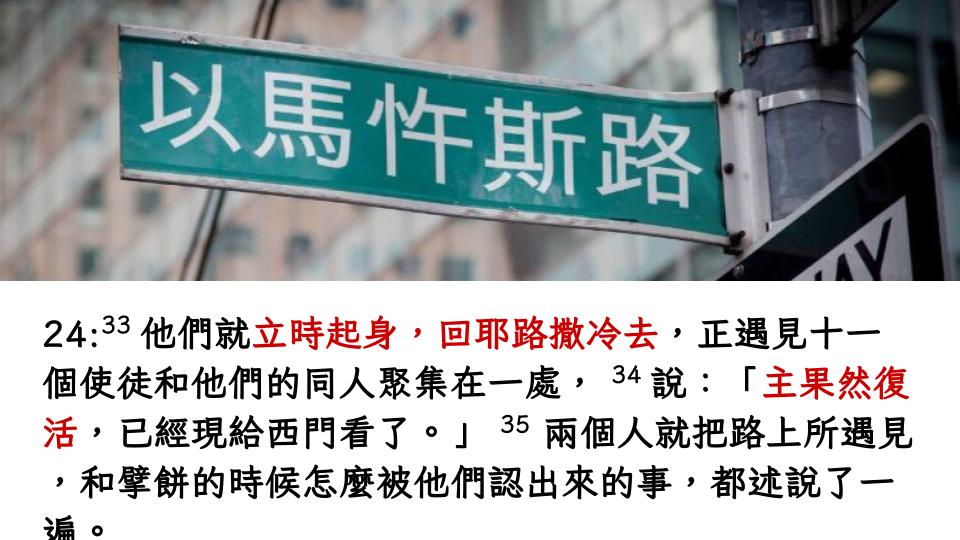
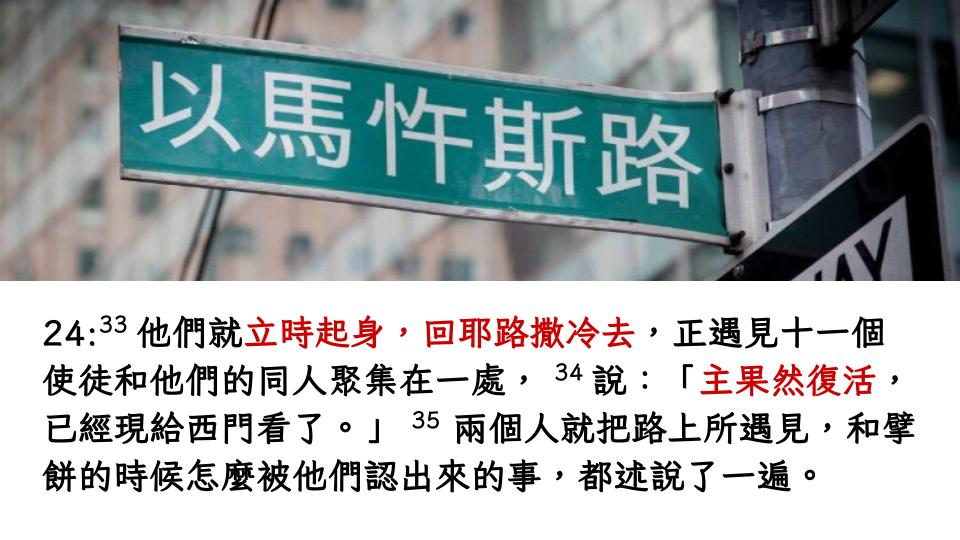
update

Changed region(s): [[0.0312, 0.563, 0.9688, 0.9185], [0.0312, 0.9481, 0.125, 1.0]]

diff --git a/preach/luke24_13-35/index.html b/preach/luke24_13-35/index.html
@@ -4,7 +4,7 @@
     <meta charset="UTF-8">
     <meta http-equiv="X-UA-Compatible" content="IE=edge">
     <meta name="viewport" content="width=device-width, initial-scale=1.0">
-    <title>Luke 10:25-37 打破隔閡的愛</title>
+    <title>Luke 24:13-35 以馬忤斯路重燃信望愛</title>
     <link rel="stylesheet" href="reveal.js/dist/reveal.css">
     <link rel="stylesheet" href="reveal.js/dist/theme/black.css" id="theme">
     <style>
@@ -16,72 +16,68 @@
         <div class="slides">
             <!-- Slide 1 -->
             <section>
-                <img src="slides/010103N0310_25-37-01.svg" alt="Slide 1" style="width:100%; height:auto;">
+                <img src="slides/010103N0324_13-35-01.jpg" alt="Slide 1" style="width:100%; height:auto;">
             </section>
             <!-- Slide 2 -->
             <section>
-                <img src="slides/010103N0310_25-37-02.svg" alt="Slide 2" style="width:100%; height:auto;">
+                <img src="slides/010103N0324_13-35-02.jpg" alt="Slide 2" style="width:100%; height:auto;">
             </section>
             <!-- Slide 3 -->
             <section>
-                <img src="slides/010103N0310_25-37-03.svg" alt="Slide 3" style="width:100%; height:auto;">
+                <img src="slides/010103N0324_13-35-03.jpg" alt="Slide 3" style="width:100%; height:auto;">
             </section>
             <!-- Slide 4 -->
             <section>
-                <img src="slides/010103N0310_25-37-04.svg" alt="Slide 4" style="width:100%; height:auto;">
+                <img src="slides/010103N0324_13-35-04.jpg" alt="Slide 4" style="width:100%; height:auto;">
             </section>
             <!-- Slide 5 -->
             <section>
-                <img src="slides/010103N0310_25-37-05.svg" alt="Slide 5" style="width:100%; height:auto;">
+                <img src="slides/010103N0324_13-35-05.jpg" alt="Slide 5" style="width:100%; height:auto;">
             </section>
             <!-- Slide 6 -->
             <section>
-                <img src="slides/010103N0310_25-37-06.svg" alt="Slide 6" style="width:100%; height:auto;">
+                <img src="slides/010103N0324_13-35-06.jpg" alt="Slide 6" style="width:100%; height:auto;">
             </section>
             <!-- Slide 7 -->
             <section>
-                <img src="slides/010103N0310_25-37-07.svg" alt="Slide 7" style="width:100%; height:auto;">
+                <img src="slides/010103N0324_13-35-07.jpg" alt="Slide 7" style="width:100%; height:auto;">
             </section>
             <!-- Slide 8 -->
             <section>
-                <img src="slides/010103N0310_25-37-08.svg" alt="Slide 8" style="width:100%; height:auto;">
+                <img src="slides/010103N0324_13-35-08.jpg" alt="Slide 8" style="width:100%; height:auto;">
             </section>
              <!-- Slide 9 -->
              <section>
-                <img src="slides/010103N0310_25-37-09.svg" alt="Slide 9" style="width:100%; height:auto;">
+                <img src="slides/010103N0324_13-35-09.jpg" alt="Slide 9" style="width:100%; height:auto;">
             </section>
             <!-- Slide 10 -->
             <section>
-                <img src="slides/010103N0310_25-37-10.svg" alt="Slide 10" style="width:100%; height:auto;">
+                <img src="slides/010103N0324_13-35-10.jpg" alt="Slide 10" style="width:100%; height:auto;">
             </section>
             <!-- Slide 11 -->
             <section>
-                <img src="slides/010103N0310_25-37-11.svg" alt="Slide 11" style="width:100%; height:auto;">
+                <img src="slides/010103N0324_13-35-11.jpg" alt="Slide 11" style="width:100%; height:auto;">
             </section>
             <!-- Slide 12 -->
             <section>
-                <img src="slides/010103N0310_25-37-12.svg" alt="Slide 12" style="width:100%; height:auto;">
+                <img src="slides/010103N0324_13-35-12.jpg" alt="Slide 12" style="width:100%; height:auto;">
             </section>
             <!-- Slide 13 -->
             <section>
-                <img src="slides/010103N0310_25-37-13.svg" alt="Slide 13" style="width:100%; height:auto;">
+                <img src="slides/010103N0324_13-35-13.jpg" alt="Slide 13" style="width:100%; height:auto;">
             </section> 
             <!-- Slide 14 -->
             <section>
-                <img src="slides/010103N0310_25-37-14.svg" alt="Slide 14" style="width:100%; height:auto;">
+                <img src="slides/010103N0324_13-35-14.jpg" alt="Slide 14" style="width:100%; height:auto;">
             </section>
             <!-- Slide 15 -->
             <section>
-                <img src="slides/010103N0310_25-37-15.svg" alt="Slide 15" style="width:100%; height:auto;">
+                <img src="slides/010103N0324_13-35-15.jpg" alt="Slide 15" style="width:100%; height:auto;">
             </section>
             <!-- Slide 16 -->
             <section>
-                <img src="slides/010103N0310_25-37-16.svg" alt="Slide 16" style="width:100%; height:auto;">
-            </section> 
-            <!-- Slide 15 -->
-            <section>
-                <img src="slides/010103N0310_25-37-17.svg" alt="Slide 17" style="width:100%; height:auto;">
-            </section>  
+                <img src="slides/010103N0324_13-35-16.jpg" alt="Slide 16" style="width:100%; height:auto;">
+            </section>
          </div>
     </div>
     <script src="reveal.js/dist/reveal.js"></script>
